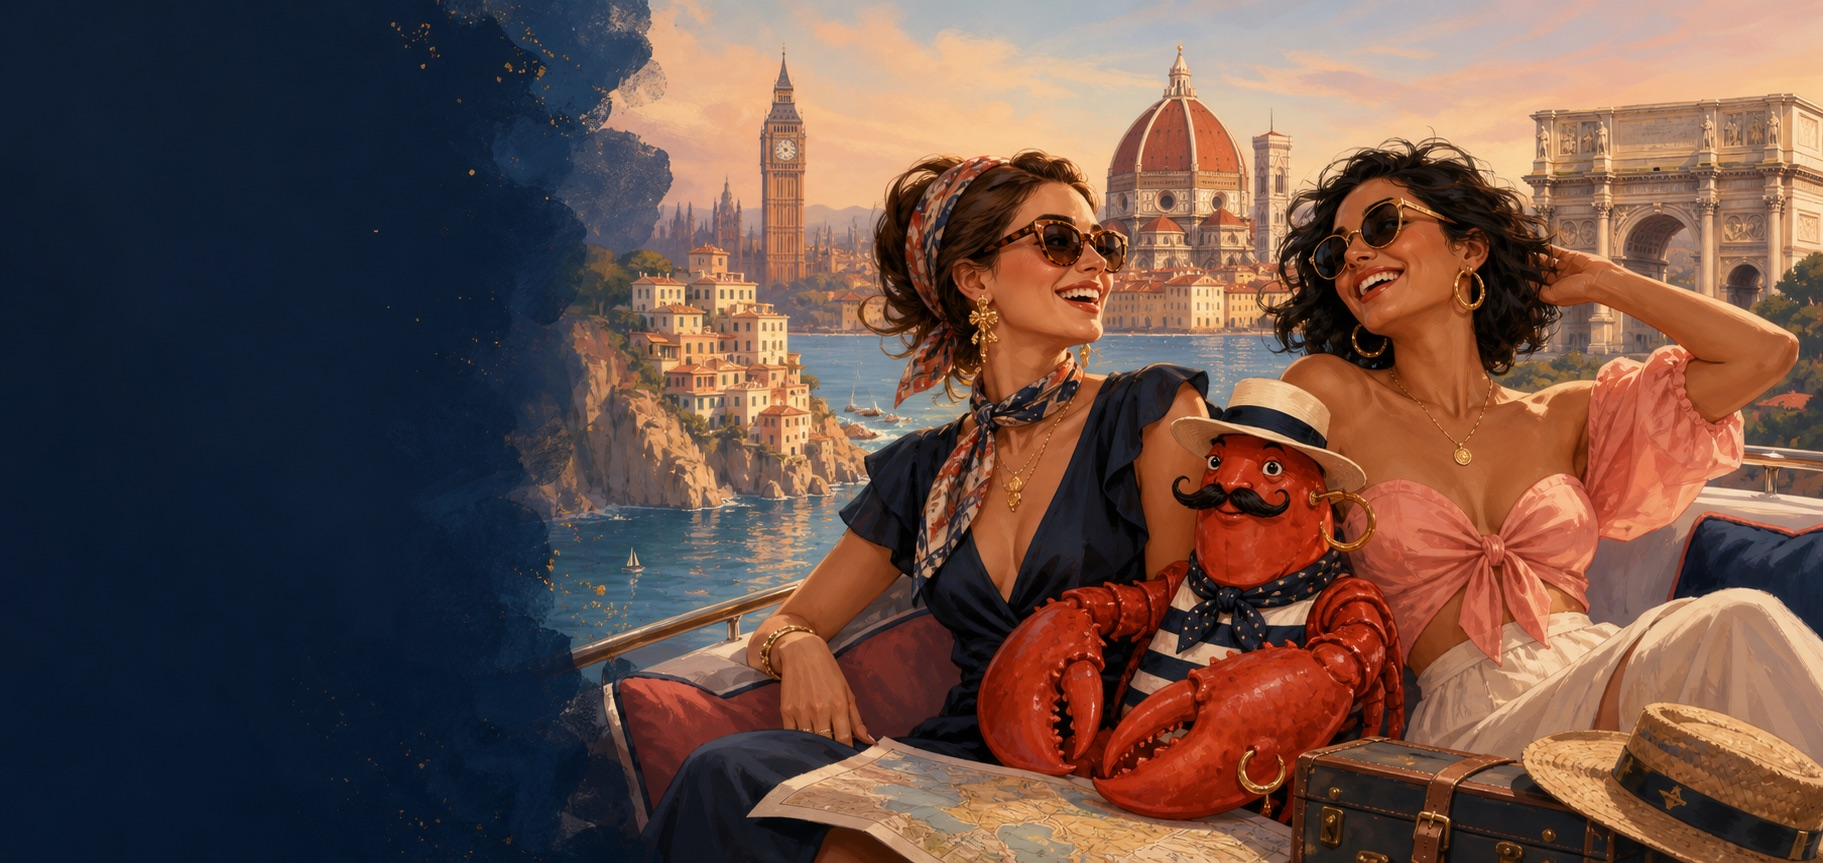
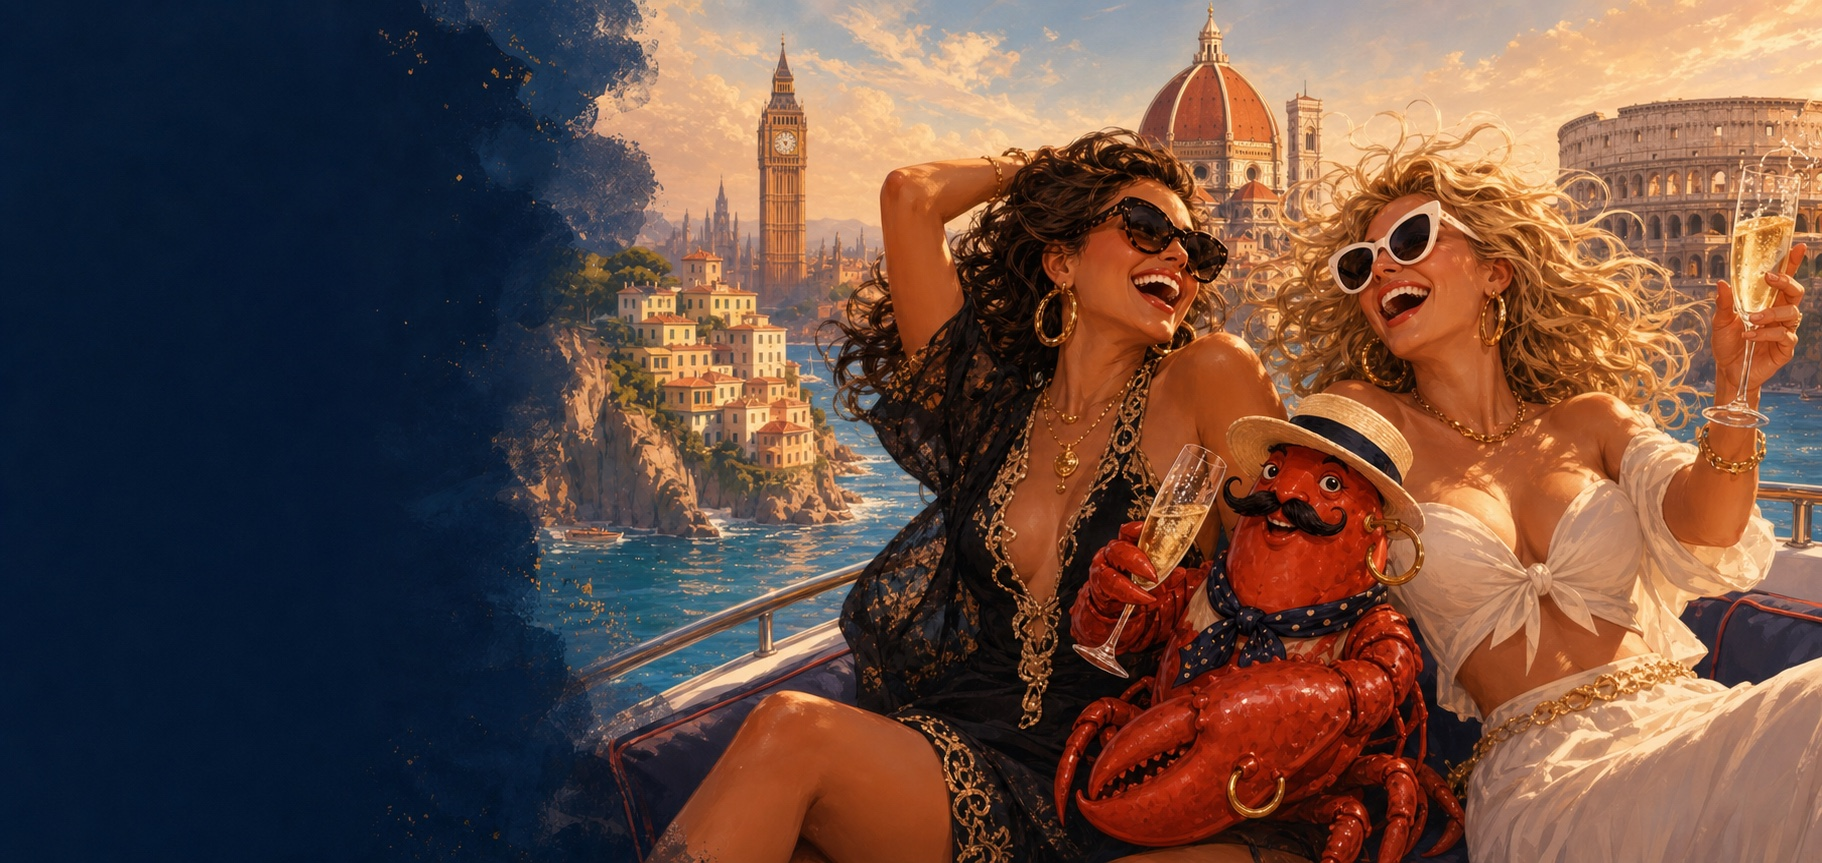
feat: refresh Euro summer hero art

diff --git a/client/src/pages/fari-home.tsx b/client/src/pages/fari-home.tsx
@@ -60,7 +60,7 @@ function SpotlightsTab() {
 export default function FariHome() {
   const [tab, setTab] = useState<Tab>("route");
   const tabs: Array<[Tab, string, typeof Compass]> = [["route", "Route", CalendarDays], ["choose", "Choose", Compass], ["spotlights", "Spotlights", Sparkles]];
-  return <main className="min-h-screen bg-[#fffaf5] text-slate-950"><header className="relative overflow-hidden bg-slate-950 text-white"><img src="/euro/hero-baddies-lobster.jpg" alt="" className="absolute inset-0 h-full w-full object-cover object-[64%_center]" /><div className="absolute inset-0 bg-gradient-to-r from-slate-950 via-slate-950/92 to-slate-950/10" /><div className="absolute inset-0 bg-gradient-to-t from-slate-950/55 via-transparent to-slate-950/25" /><div className="relative mx-auto max-w-7xl px-5 pb-16 pt-7 sm:px-8 sm:pb-24"><nav className="flex items-center justify-between"><div className="flex items-center gap-2 font-bold"><span className="text-2xl">🍦</span><span>Euro Summer</span></div><span className="rounded-full border border-white/20 bg-slate-950/25 px-3 py-1 text-xs font-bold text-white/80 backdrop-blur-sm">Fari + Storm · 2026</span></nav><div className="mt-16 max-w-4xl sm:mt-24"><p className="text-sm font-bold uppercase tracking-[0.3em] text-rose-300">London → Florence → coast TBD → Rome</p><h1 className="mt-5 font-serif text-5xl font-bold leading-[0.95] tracking-tight drop-shadow-lg sm:text-7xl lg:text-8xl">Two friends.<br /><span className="text-rose-300">One flexible plot.</span></h1><p className="mt-7 max-w-2xl text-lg leading-8 text-slate-200 drop-shadow">A public-safe trip companion for daily inspiration, destination decisions, nightlife, shopping, and the full yacht-era agenda.</p></div><div className="mt-10 flex flex-wrap gap-3"><Pill icon={Plane} copy="Aug 19–31" /><Pill icon={MapPin} copy="Coast decision open" /><Pill icon={Anchor} copy="Boat options welcome" /></div></div></header><div className="sticky top-0 z-40 border-b border-slate-200 bg-[#fffaf5]/95 backdrop-blur"><div className="mx-auto flex max-w-7xl gap-2 overflow-x-auto px-4 py-3 sm:px-8">{tabs.map(([id, label, Icon]) => <button key={id} onClick={() => setTab(id)} className={`inline-flex shrink-0 items-center gap-2 rounded-full px-4 py-2 text-sm font-bold ${tab === id ? "bg-slate-950 text-white" : "bg-white text-slate-600"}`}><Icon className="h-4 w-4" />{label}</button>)}</div></div><div className="mx-auto max-w-7xl px-5 py-14 sm:px-8 sm:py-20">{tab === "route" && <RouteTab />}{tab === "choose" && <ChooseTab />}{tab === "spotlights" && <SpotlightsTab />}</div><footer className="border-t bg-white"><div className="mx-auto flex max-w-7xl flex-col gap-3 px-5 py-8 text-sm text-slate-500 sm:flex-row sm:justify-between sm:px-8"><p>Built for flexible plans and excellent outfits. 🍦</p><p>Open Gelato to plan, compare, and chat together.</p></div></footer><ChatBox /></main>;
+  return <main className="min-h-screen bg-[#fffaf5] text-slate-950"><header className="relative overflow-hidden bg-slate-950 text-white"><img src="/euro/hero-baddies-lobster.jpg" alt="" className="absolute inset-0 h-full w-full object-cover object-[79%_center] sm:object-[64%_center]" /><div className="absolute inset-0 bg-gradient-to-r from-slate-950 via-slate-950/92 to-slate-950/10" /><div className="absolute inset-0 bg-gradient-to-t from-slate-950/55 via-transparent to-slate-950/25" /><div className="relative mx-auto max-w-7xl px-5 pb-16 pt-7 sm:px-8 sm:pb-24"><nav className="flex items-center justify-between"><div className="flex items-center gap-2 font-bold"><span className="text-2xl">🍦</span><span>Euro Summer</span></div><span className="rounded-full border border-white/20 bg-slate-950/25 px-3 py-1 text-xs font-bold text-white/80 backdrop-blur-sm">Fari + Storm · 2026</span></nav><div className="mt-16 max-w-4xl sm:mt-24"><p className="text-sm font-bold uppercase tracking-[0.3em] text-rose-300">London → Florence → coast TBD → Rome</p><h1 className="mt-5 font-serif text-5xl font-bold leading-[0.95] tracking-tight drop-shadow-lg sm:text-7xl lg:text-8xl">Two friends.<br /><span className="text-rose-300">One flexible plot.</span></h1><p className="mt-7 max-w-2xl text-lg leading-8 text-slate-200 drop-shadow">A public-safe trip companion for daily inspiration, destination decisions, nightlife, shopping, and the full yacht-era agenda.</p></div><div className="mt-10 flex flex-wrap gap-3"><Pill icon={Plane} copy="Aug 19–31" /><Pill icon={MapPin} copy="Coast decision open" /><Pill icon={Anchor} copy="Boat options welcome" /></div></div></header><div className="sticky top-0 z-40 border-b border-slate-200 bg-[#fffaf5]/95 backdrop-blur"><div className="mx-auto flex max-w-7xl gap-2 overflow-x-auto px-4 py-3 sm:px-8">{tabs.map(([id, label, Icon]) => <button key={id} onClick={() => setTab(id)} className={`inline-flex shrink-0 items-center gap-2 rounded-full px-4 py-2 text-sm font-bold ${tab === id ? "bg-slate-950 text-white" : "bg-white text-slate-600"}`}><Icon className="h-4 w-4" />{label}</button>)}</div></div><div className="mx-auto max-w-7xl px-5 py-14 sm:px-8 sm:py-20">{tab === "route" && <RouteTab />}{tab === "choose" && <ChooseTab />}{tab === "spotlights" && <SpotlightsTab />}</div><footer className="border-t bg-white"><div className="mx-auto flex max-w-7xl flex-col gap-3 px-5 py-8 text-sm text-slate-500 sm:flex-row sm:justify-between sm:px-8"><p>Built for flexible plans and excellent outfits. 🍦</p><p>Open Gelato to plan, compare, and chat together.</p></div></footer><ChatBox /></main>;
 }
 
 function Pill({ icon: Icon, copy }: { icon: typeof Anchor; copy: string }) {

diff --git a/LOG.md b/LOG.md
@@ -28,3 +28,7 @@
   SQLite database, routed `/api/*` through Caddy, seeded the planning opener,
   and verified a real production send/read round-trip. Removed the synthetic QA
   message after proof; 390×844 expanded-chat layout has no horizontal overflow.
+- 2026-08-17: Replaced the hero art at Fari's request with a more energetic
+  yacht-party version: two glamorous adult friends laughing and celebrating
+  with their moustached, hoop-earring lobster companion. Preserved the wide
+  crop and dark left-side text-safe area. Built-in image-generation edit path.
